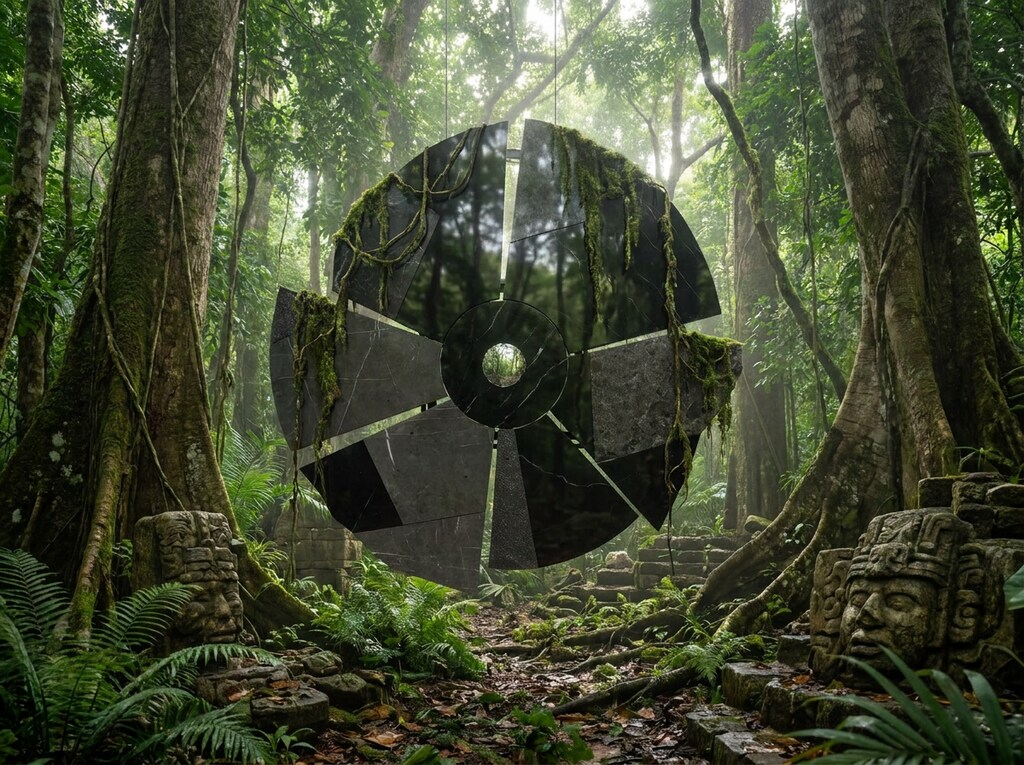
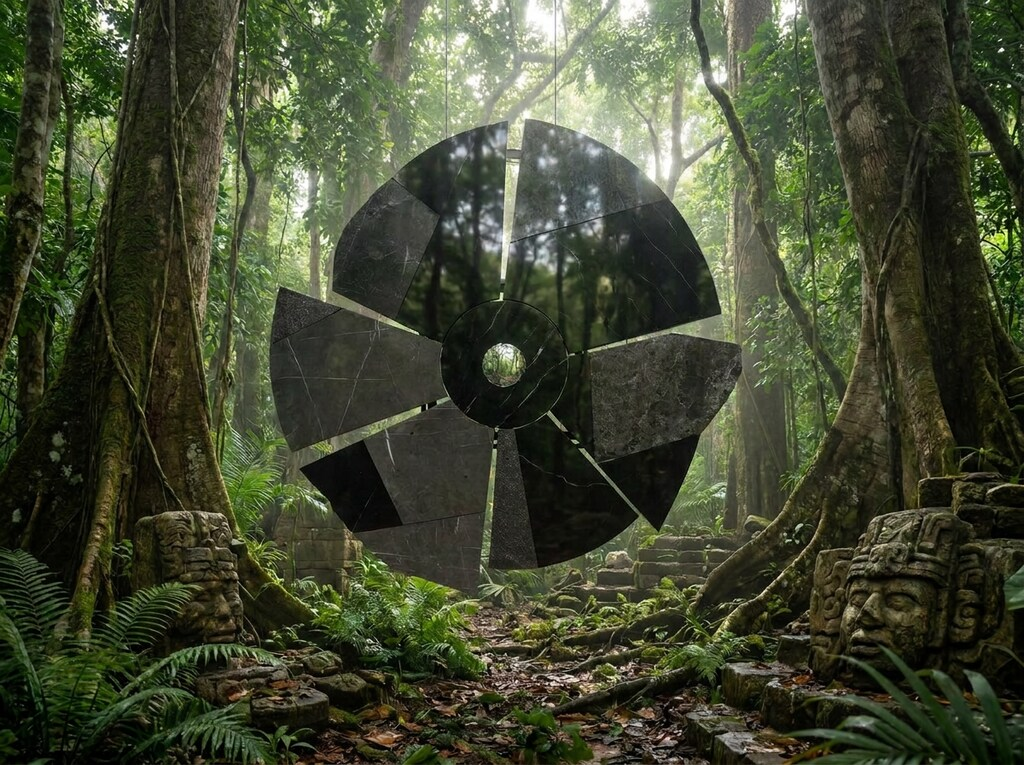
Ritual Reflejo: render de selva con la pieza limpia, sin lianas ni musgo
Claude-Session: https://claude.ai/code/session_011Xm2bxjfC54BQN5kjSefgX

diff --git a/contenido.js b/contenido.js
@@ -70,7 +70,7 @@ window.PUGA = {
         { src: 'img/proyectos/ritual-reflejo/r6.jpg', prop: 1.339, titulo: 'Espejo de agua.', texto: 'Render. Sobre piedra negra, la pieza se duplica en el agua bajo la neblina.' },
         { src: 'img/proyectos/ritual-reflejo/03.jpg', prop: 1.333, titulo: 'La pieza.', texto: 'Placas de mármol negro y porcelanato que giran alrededor de un círculo.' },
         { src: 'img/proyectos/ritual-reflejo/04.jpg', prop: 0.75, titulo: 'Frente al reflejo.', texto: 'La escala obliga a detenerse y mirar.' },
-        { src: 'img/proyectos/ritual-reflejo/r7.jpg', prop: 1.339, titulo: 'Selva.', texto: 'Render. Suspendida entre ceibas y piedras mayas, devorada por el musgo.' },
+        { src: 'img/proyectos/ritual-reflejo/r7.jpg', prop: 1.339, titulo: 'Selva.', texto: 'Render. Suspendida entre ceibas y piedras mayas.' },
         { src: 'img/proyectos/ritual-reflejo/05.jpg', prop: 1.333, titulo: 'Superficie oscura.', texto: 'El brillo devuelve el espacio, deformado y en penumbra.' },
         { src: 'img/proyectos/ritual-reflejo/06.jpg', prop: 0.75, titulo: 'El centro.', texto: 'Un anillo de mármol enmarca el espejo, como el ojo de la obsidiana.' },
         { src: 'img/proyectos/ritual-reflejo/r1.jpg', prop: 1.339, titulo: 'Piedra volcánica.', texto: 'Render. Bajo una sola entrada de luz cenital.' },
